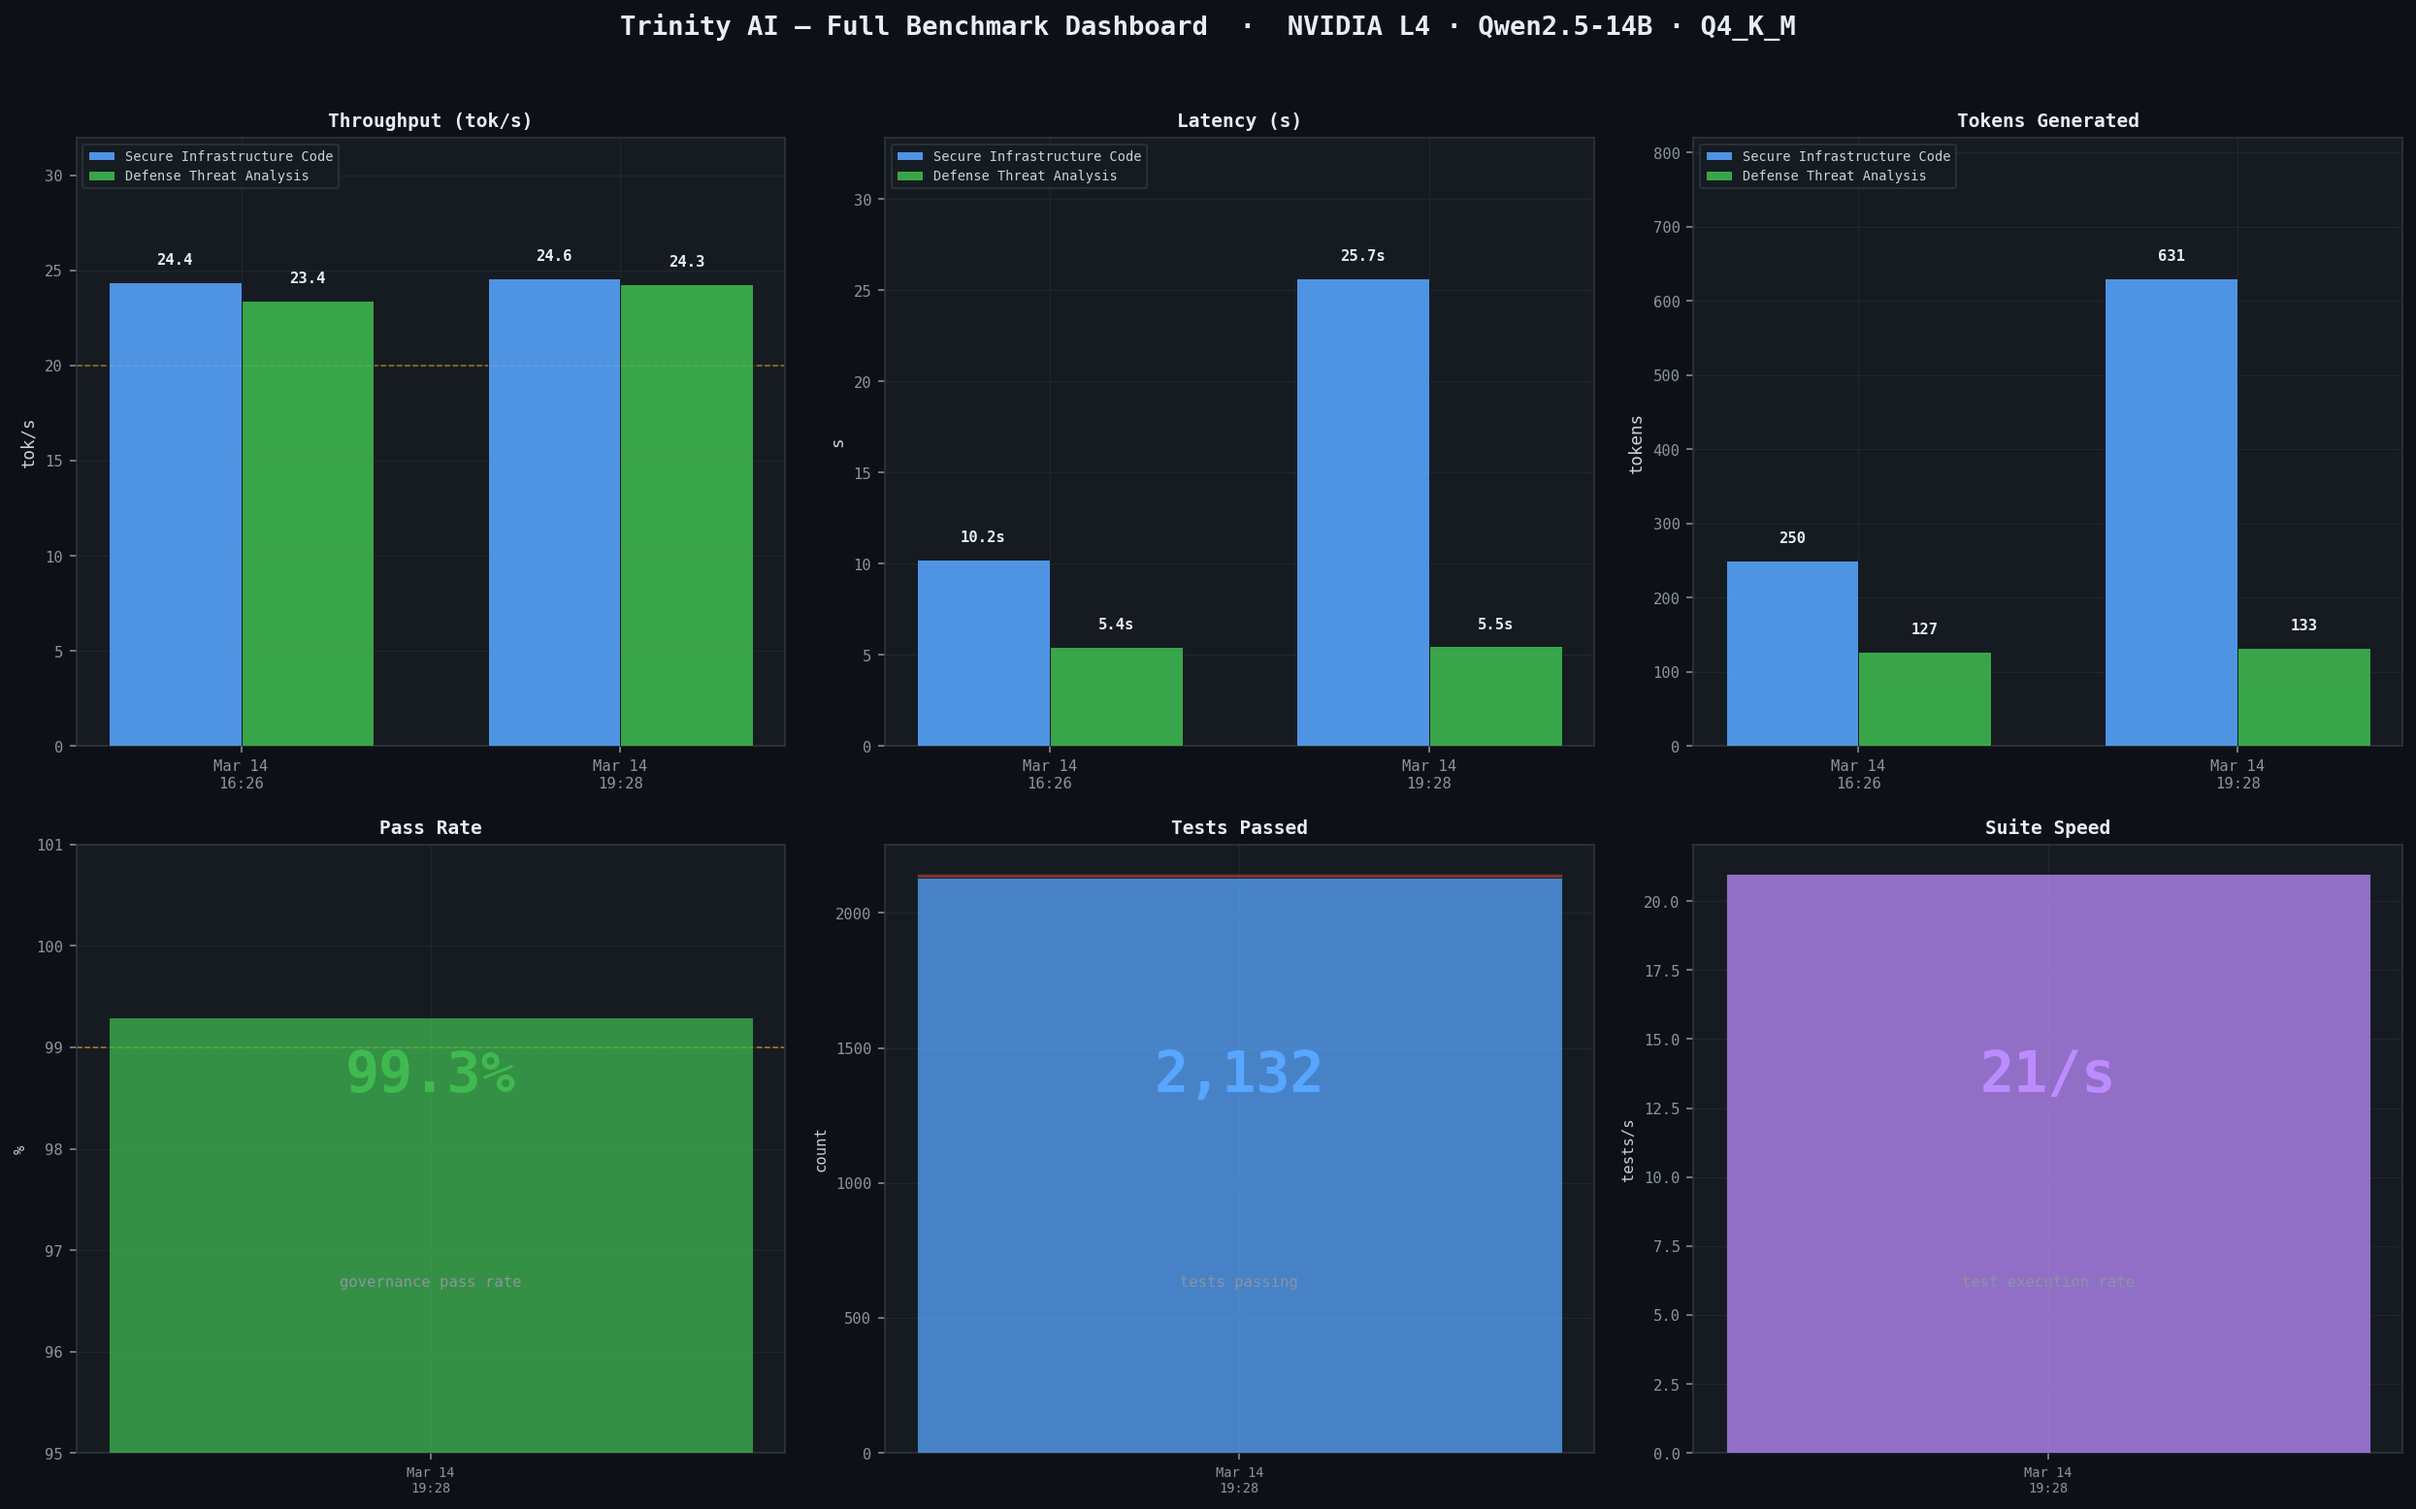
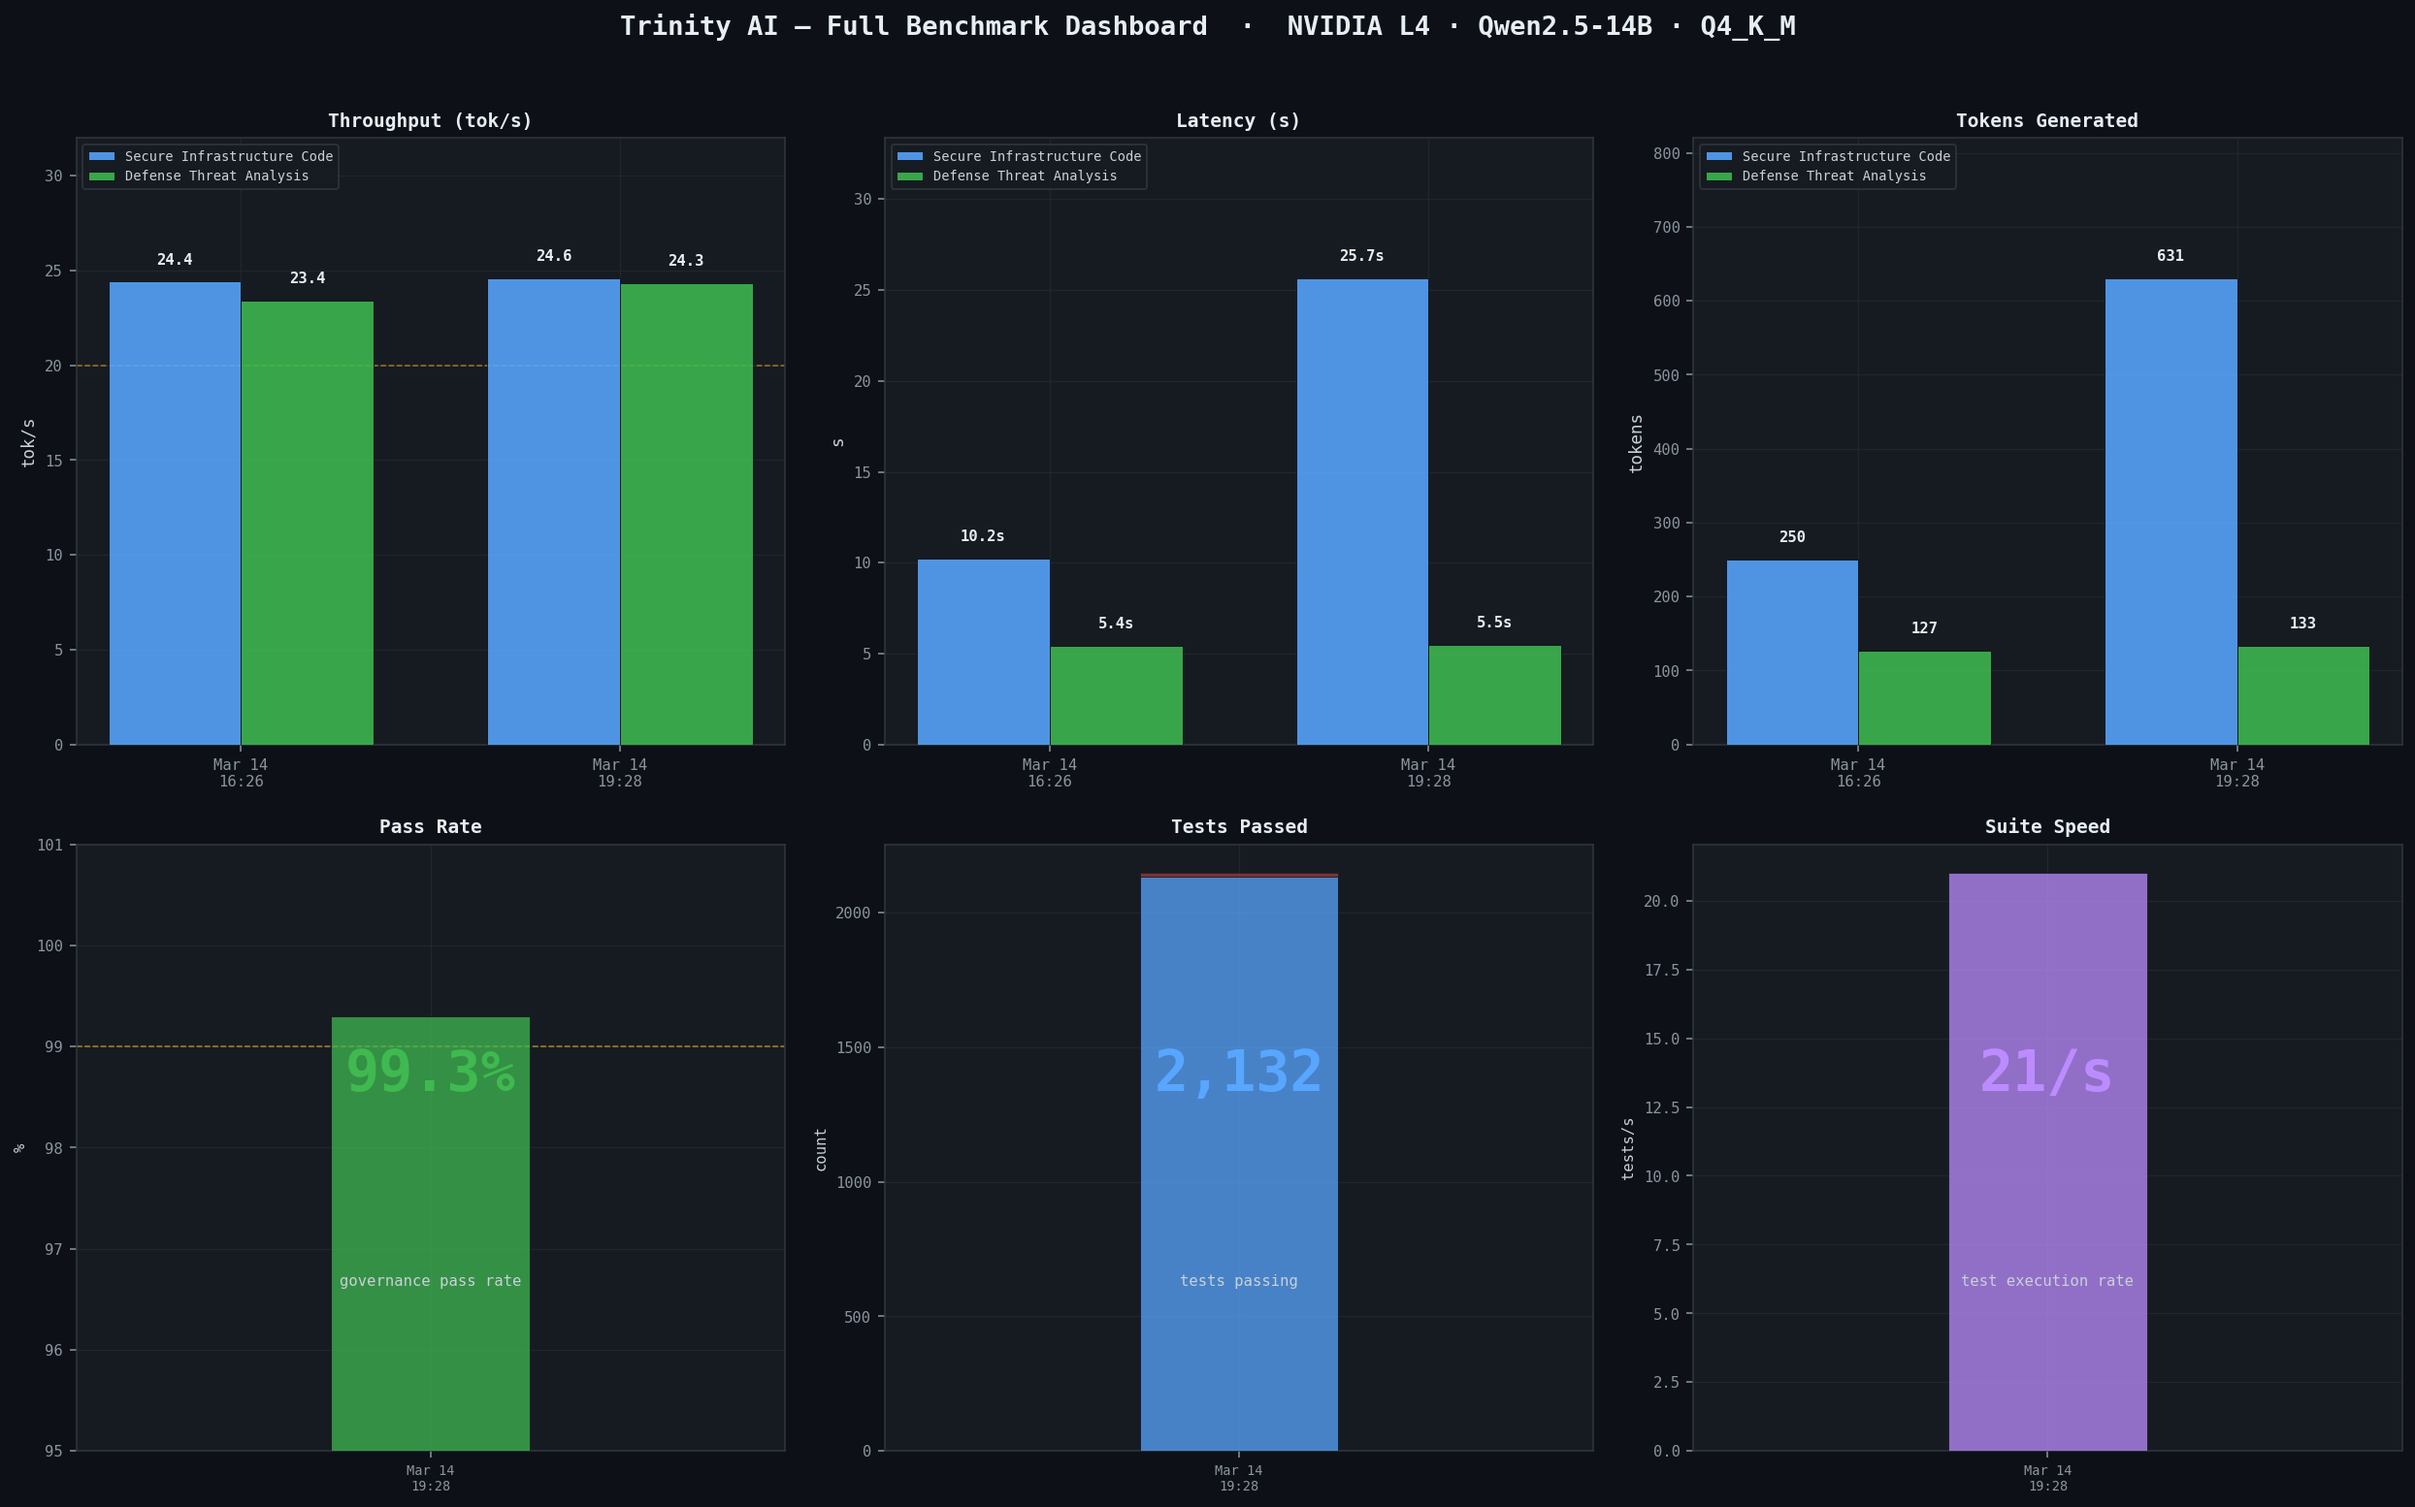
fix(benchmark): update benchmark chart images and enhance chart generation
- Replaced existing PNG files for benchmark visualizations: `chart_consistency.png`, `chart_dashboard.png`, `chart_governance_tests.png`, `chart_latency.png`, `chart_throughput.png`, and `chart_tokens.png` to reflect the latest performance data.
- Improved the `run_benchmarks.py` script by refining chart labeling and adjusting bar widths for better visual clarity, especially when displaying single-run data.

These updates ensure that benchmark visualizations are accurate and enhance the overall presentation of performance metrics.

[integrity-verified: f8cb26d8c6b6]

diff --git a/benchmarks/run_benchmarks.py b/benchmarks/run_benchmarks.py
@@ -93,7 +93,7 @@ def _big_stat(ax, value_str, label_str, value_color=GREEN):
             fontsize=30, fontweight="bold", color=value_color,
             ha="center", va="center", zorder=10)
     ax.text(0.5, 0.28, label_str, transform=ax.transAxes,
-            fontsize=8, color=DIM, ha="center", va="center", zorder=10)
+            fontsize=8, color=FG, ha="center", va="center", zorder=10)
 
 def _save(fig, name):
     path = SCRIPT_DIR / name
@@ -205,9 +205,13 @@ for task, color in zip(tasks, colors):
     ax.scatter(sub["completion_tokens"], sub["latency_s"],
                label=task, color=color, s=100, zorder=4,
                edgecolors=BG, linewidths=0.8)
-    for _, row in sub.iterrows():
-        # offset annotation to avoid overlap — infra points are top-right, threat bottom-left
-        xytext = (8, 4) if row["completion_tokens"] > 200 else (8, -14)
+    pts = list(sub.sort_values("completion_tokens").iterrows())
+    for idx, (_, row) in enumerate(pts):
+        if row["completion_tokens"] > 200:
+            xytext = (8, 4)
+        else:
+            # Alternate above/below for clustered low-token points
+            xytext = (8, 8) if idx % 2 == 0 else (8, -17)
         ax.annotate(f"{row['tok_s']:.1f} tok/s",
                     (row["completion_tokens"], row["latency_s"]),
                     textcoords="offset points", xytext=xytext,
@@ -280,8 +284,8 @@ if not df_tests.empty:
     latest_tps  = df_tests["tests_per_second"].iloc[-1]
     latest_dur  = df_tests["duration_s"].iloc[-1]
     latest_tot  = int(df_tests["tests_passed"].iloc[-1] + df_tests["tests_failed"].iloc[-1])
-    _big_stat(ax, f"{latest_tps:.0f}/s", f"{latest_tot:,} tests in {latest_dur:.0f}s", PURPLE)
-    _subtitle(ax, "Full Ouroboros governance suite — circuit breakers, trust graduators, FSM transitions")
+    _big_stat(ax, f"{latest_tps:.0f}/s", f"{latest_tot:,} tests completed in {latest_dur:.0f}s", PURPLE)
+    _subtitle(ax, "Ouroboros suite: circuit breakers · trust graduators · FSM")
 
     fig.suptitle("Ouroboros Governance Test Suite — Reliability Across Runs",
                  fontsize=14, fontweight="bold", color=FG_HI, y=1.02)
@@ -309,17 +313,21 @@ ax3.set_title("Tokens Generated",    fontsize=10)
 ax1.axhline(20, color=YELLOW, lw=0.8, linestyle="--", alpha=0.7, zorder=2)
 
 if has_tests:
-    x_t  = np.arange(len(df_tests))
-    rl_t = df_tests["run_label"].tolist()
-    ax4  = fig.add_subplot(n_rows, 3, 4)
-    ax5  = fig.add_subplot(n_rows, 3, 5)
-    ax6  = fig.add_subplot(n_rows, 3, 6)
+    x_t    = np.arange(len(df_tests))
+    rl_t   = df_tests["run_label"].tolist()
+    # Narrow bars when only 1 run so it doesn't look like a solid block
+    gov_w  = 0.28 if len(df_tests) == 1 else 0.5
+    ax4    = fig.add_subplot(n_rows, 3, 4)
+    ax5    = fig.add_subplot(n_rows, 3, 5)
+    ax6    = fig.add_subplot(n_rows, 3, 6)
 
     # Pass rate
     ax4.bar(x_t, df_tests["pass_rate"], color=GREEN, alpha=0.75, zorder=3,
-            edgecolor=BG, linewidth=0.5, width=0.5)
+            edgecolor=BG, linewidth=0.5, width=gov_w)
     ax4.set_ylim(95, 101)
     ax4.set_xticks(x_t); ax4.set_xticklabels(rl_t, fontsize=7)
+    if len(df_tests) == 1:
+        ax4.set_xlim(-0.5, 0.5)
     ax4.set_ylabel("%", fontsize=8)
     ax4.set_title("Pass Rate", fontsize=10)
     ax4.axhline(99, color=YELLOW, lw=0.8, linestyle="--", alpha=0.8)
@@ -327,18 +335,22 @@ if has_tests:
 
     # Tests passed
     ax5.bar(x_t, df_tests["tests_passed"], color=CYAN, alpha=0.75, zorder=3,
-            edgecolor=BG, linewidth=0.5, width=0.5)
+            edgecolor=BG, linewidth=0.5, width=gov_w)
     ax5.bar(x_t, df_tests["tests_failed"], bottom=df_tests["tests_passed"],
-            color=RED, alpha=0.45, zorder=3, edgecolor=BG, linewidth=0.5, width=0.5)
+            color=RED, alpha=0.45, zorder=3, edgecolor=BG, linewidth=0.5, width=gov_w)
     ax5.set_xticks(x_t); ax5.set_xticklabels(rl_t, fontsize=7)
+    if len(df_tests) == 1:
+        ax5.set_xlim(-0.5, 0.5)
     ax5.set_ylabel("count", fontsize=8)
     ax5.set_title("Tests Passed", fontsize=10)
     _big_stat(ax5, f"{int(df_tests['tests_passed'].iloc[-1]):,}", "tests passing", CYAN)
 
     # Suite speed
     ax6.bar(x_t, df_tests["tests_per_second"], color=PURPLE, alpha=0.75, zorder=3,
-            edgecolor=BG, linewidth=0.5, width=0.5)
+            edgecolor=BG, linewidth=0.5, width=gov_w)
     ax6.set_xticks(x_t); ax6.set_xticklabels(rl_t, fontsize=7)
+    if len(df_tests) == 1:
+        ax6.set_xlim(-0.5, 0.5)
     ax6.set_ylabel("tests/s", fontsize=8)
     ax6.set_title("Suite Speed", fontsize=10)
     _big_stat(ax6, f"{df_tests['tests_per_second'].iloc[-1]:.0f}/s", "test execution rate", PURPLE)
